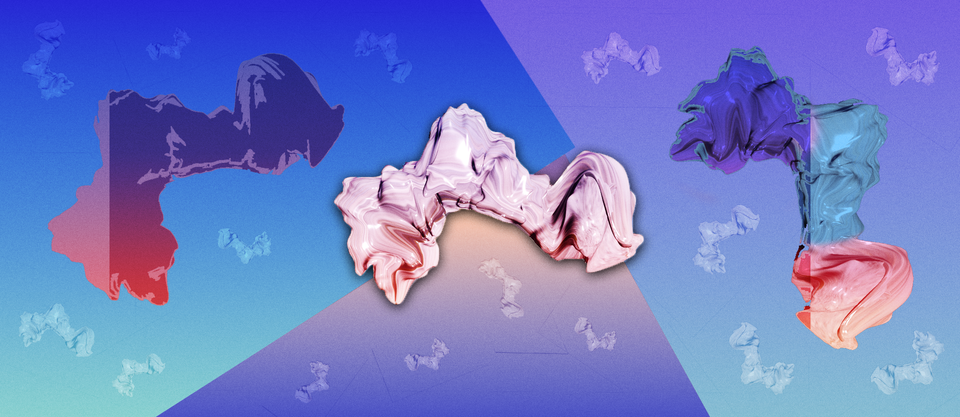
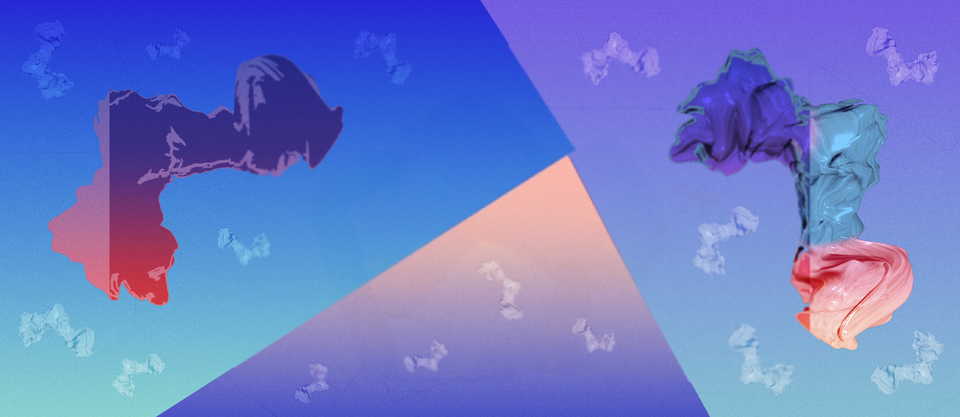
Add files via upload

diff --git a/moja strona6.html b/moja strona6.html
@@ -694,6 +694,37 @@ model-viewer.white-bg {
       100% { transform: rotate(360deg); }
     }
 
+
+    .card {
+  width: 300px;
+  margin: 20px;
+  overflow: hidden;
+  border-radius: 12px;
+  box-shadow: 0 4px 15px rgba(0,0,0,0.2);
+}
+
+.card-image-wrapper {
+  position: relative;
+  overflow: hidden;
+}
+
+.card img:first-child {
+  width: 100%;
+  display: block;
+  border-radius: 12px 12px 0 0;
+}
+
+/* Overlay jako PNG */
+.overlay {
+  position: absolute;
+  top: 20px;   /* pozycja overlay */
+  left: -9px;
+  width: 5px;  /* początkowy rozmiar overlay */
+  height: 5px;
+  object-fit: contain;
+  pointer-events: none;
+  transition: transform 0.2s ease-out;
+}
   </style>
 </head>
 <body>
@@ -758,13 +789,17 @@ model-viewer.white-bg {
       </div>
     </article>
 
-    <article class="card">
-      <img src="appp1.png" alt="Projekt: Grafiki 3D">
-      <div class="card-body">
-        <h3>Grafiki 3D</h3>
-        <p>Animacje i&nbsp;grafiki 3D przygotowane pod social media i&nbsp;kampanie.</p>
-      </div>
-    </article>
+<article class="card">
+  <div class="card-image-wrapper">
+    <img src="appp1.png" alt="Projekt: Grafiki 3D">
+    <img src="appp1overlay.png" class="overlay" alt="Overlay">
+  </div>
+  <div class="card-body">
+    <h3>Grafiki 3D</h3>
+    <p>Animacje i&nbsp;grafiki 3D przygotowane pod social media i&nbsp;kampanie.</p>
+  </div>
+</article>
+
   </section>
 
 
@@ -1531,5 +1566,14 @@ generateCarousel();
       }
     });
   </script>
+  <script>const overlay = document.querySelector('.overlay');
+
+window.addEventListener('scroll', () => {
+  const scrollY = window.scrollY;
+  const scale = 0.5 + scrollY / 1900; // regulujesz tempo powiększania
+  overlay.style.transform = `scale(${scale})`;
+});
+</script>
+
 </body>
 </html>
